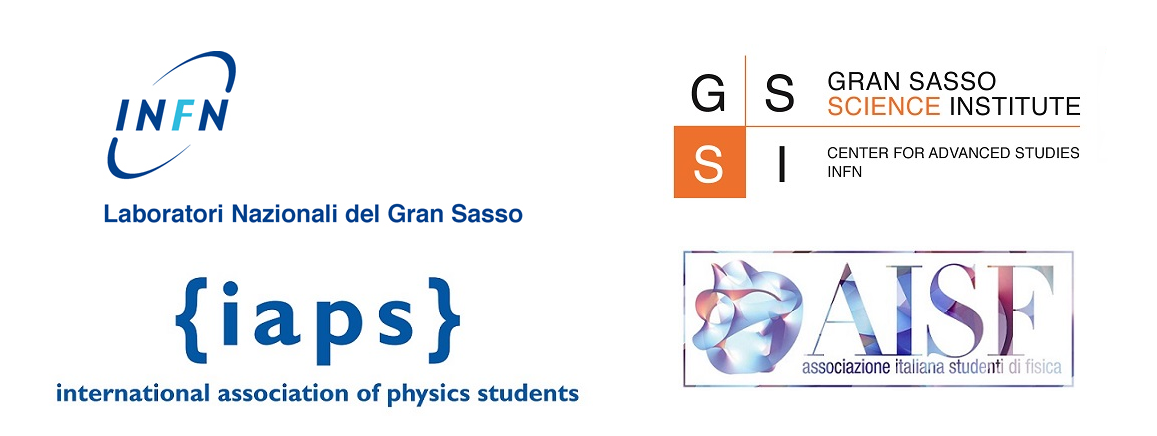
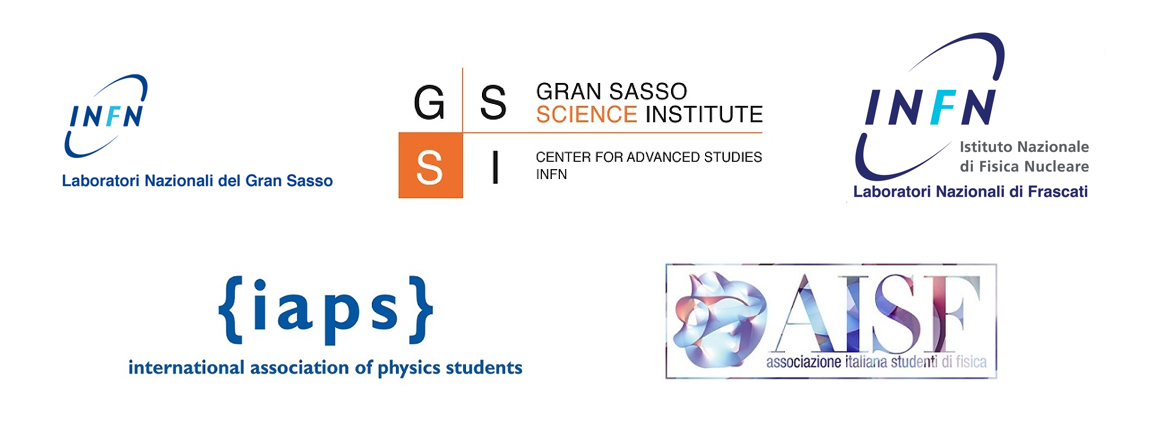
bla

diff --git a/content/pages/programme.md b/content/pages/programme.md
@@ -20,7 +20,7 @@ image1description: iaps@GranSasso 2015
 	  <p>The Particle & Astroparticle Physics Programme is coming to its second edition, this time to be held in the autumn. Following last year's great success, the Italian Association of Physics Students (AISF) will be organising a similar event, also including some new features and further improvements.</p>
 
 
-	  <p>During the Programme, 40 students will be visiting the National Gran Sasso Laboratory and the Gran Sasso Science Institute in central Italy and possibly, although it is not yet confirmed, the INFN laboratories in Frascati, Rome. Participants will meet in Rome, then move to the city of L'Aquila by coach and eventually return to Rome for departure. The event will have a focus on astroparticle physics, but a number of other topics will be touched upon, including theoretical physics, nuclear physics, high energy collisions and cosmology. Students will be expected to have a basic understanding of these subjects in order to effectively make the most of the programme.</p>
+	  <p>During the Programme, 40 students will be visiting the National Gran Sasso Laboratory and the Gran Sasso Science Institute in central Italy and the INFN laboratories in Frascati, Rome. Participants will meet in Rome, then move to the city of L'Aquila by coach and eventually return to Rome for departure. The event will have a focus on astroparticle physics, but a number of other topics will be touched upon, including theoretical physics, nuclear physics, high energy collisions and cosmology. Students will be expected to have a basic understanding of these subjects in order to effectively make the most of the programme.</p>
 
 
 	  <p>The complete event programme for 2016 can be downloaded <a class="indigo-text" href="files/APAP_Programme.pdf">here</a>.</p>
@@ -52,11 +52,11 @@ image1description: iaps@GranSasso 2015
 	      </tr>
 	      <tr>
 		<td>5/10 - Day 2</td>
-		<td>INFN Frascati or visit to Rome + transfer to L'Aquila</td>
+		<td>INFN Frascati + transfer to L'Aquila</td>
 	      </tr>
 	      <tr>
 		<td>6/10 - Day 3</td>
-		<td>LNGS (Research center + Underground Ficility)</td>
+		<td>LNGS (Research center + Underground Facility)</td>
 	      </tr>
 	      <tr>
 		<td>7/10 - Day 4</td>

diff --git a/content/pages/index.md b/content/pages/index.md
@@ -35,7 +35,7 @@ save_as: index.html
       <div class="icon-block">
         <h2 class="center indigo-text text-darken-2"> <i class="mdi-action-room"></i></h2>
         <h5 class="center">Where</h5>
-        <p class="light">In central Italy. Students will meet in Rome and possibly visit the INFN laboratories in Frascati on the first day. They will then move to the city of L'Aquila to spend two days at the LNGS and GSSI facilities.</p>
+        <p class="light">In central Italy. Students will meet in Rome and visit the INFN laboratories in Frascati on the first day. They will then move to the city of L'Aquila to spend two days at the LNGS and GSSI facilities.</p>
       </div>
     </div>
   </div>
@@ -53,15 +53,15 @@ save_as: index.html
           <h5 class="light grey-text text-lighten-3">Gran Sasso National Laboratory</h5>
         </div>
       </li>
-      <!--
+
       <li>
-        <img src="{filename}/images/2015_day2_007_2.jpg">
+        <!-- <img src="{filename}/images/DAFNE.jpg"> -->
         <div class="caption center-align">
-          <h3>ENEA</h3>
-          <h5 class="light grey-text text-lighten-3">Italian National Agency for New Technologies, Energy and Sustainable Economic Development</h5>
+          <h3>INFN</h3>
+          <h5 class="light grey-text text-lighten-3">Italian National Agency for Nuclear Physics</h5>
         </div>
       </li>
-      -->
+
       <li>
         <img src="{filename}/images/2015_day4_007_2.jpg"> <!-- random image -->
         <div class="caption right-align">

diff --git a/content/pages/guests.md b/content/pages/guests.md
@@ -25,7 +25,7 @@ image1description: iaps@GranSasso 2015
 
 * The Gran Sasso Science Institute (GSSI) is a modern institution focusing on astroparticle physics, mathematics and modelling. Its location close to the LNGS offers its members a unique opportunity to access world-class experiments within the mountain. The GSSI has an active PhD programme in Physics and will be displaying some of the work that students do there.
 
-* During this year’s event, we also hope to be able to visit the INFN laboratories in Frascati, near Rome; however, the participation of INFN in our programme is <b>not yet confirmed</b> and hence will not be described in detail on this webpage. Future updates on the subject will be provided when possible.
+* During this year’s event, we also hope to be able to visit the INFN laboratories in Frascati, near Rome; however, the participation of INFN in our programme is <b>not yet confirmed</b> and hence will not be described in detail on this webpage. Future updates on the subject will be provided when possible. DA AGGIORNARE
 
 * During our visits, we will be offered a large number of talks, as in the 2015 edition. In particular, we expect to have overviews of all the major experiments running at the LNGS. The experience can be overwhelming! We will provide further details of our speakers as they become available.<!-- </p> -->
   <!--   </div> -->
